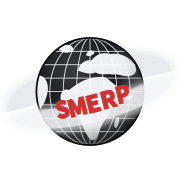
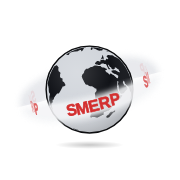
V20261127-02 휴대폰 지구를 PC와 동일하게 — 앱 시작 화면·홈 화면 아이콘·파비콘·상단 로고
- smerp-splash.js: PC 시작 화면과 같은 지구(회색 바다+검은 대륙, 격자 없음)·시계방향·떨림 제거
- icons/ 7종 새 지구로 재생성, 아이콘 주소 ?v=2→?v=3

Claude-Session: https://claude.ai/code/session_01Uk118kBQp8zNcn21PiF6a7

Changed region(s): [[0.1667, 0.1944, 0.8333, 0.8333]]

diff --git a/smerp-splash.js b/smerp-splash.js
@@ -24,26 +24,24 @@
   var R=106,RY=30,TILT=-14,PER=8000,WORD='SMERP',REP=4,LS=0.19;
   var wordA=WORD.length*LS,gapA=(2*Math.PI-REP*wordA)/REP,L=[];
   for(var r=0;r<REP;r++)for(var k=0;k<WORD.length;k++)L.push({c:WORD.charAt(k),a:r*(wordA+gapA)+k*LS});
-  var land='<path d="M-30 -2 C-38 -6 -44 4 -41 14 C-37 24 -27 28 -18 30 C-14 40 -10 52 -4 62 C0 70 6 72 10 64 C14 54 18 44 24 36 C30 30 31 22 33 14 C40 8 44 0 40 -6 C34 -10 28 -16 22 -20 C14 -22 6 -20 -2 -18 C-10 -16 -20 -10 -30 -2Z"/>'+
-    '<path d="M-18 -30 C-14 -40 -6 -46 2 -44 C8 -52 18 -57 28 -53 C40 -56 54 -50 62 -40 C68 -32 66 -24 57 -22 C48 -20 40 -26 32 -24 C24 -26 16 -22 8 -27 C0 -24 -8 -26 -18 -30Z"/>'+
-    '<path d="M42 -8 C50 -9 58 -2 61 8 C55 15 47 11 42 2Z"/><ellipse cx="38" cy="44" rx="3" ry="8" transform="rotate(15 38 44)"/>'+
-    '<path d="M-77 -22 C-66 -26 -58 -14 -60 0 C-62 14 -70 26 -77 32Z"/><path d="M-46 -62 C-36 -69 -22 -67 -24 -58 C-30 -53 -41 -54 -46 -62Z"/><path d="M-6 -52 C-2 -60 6 -60 6 -54 C2 -50 -3 -49 -6 -52Z"/>';
+  // (V20261127-02) 대륙 모양 — PC 시작 화면과 동일: 상무님 제공 지구 그림을 벡터로 변환 — 회색 바다 + 검은 대륙 (경로는 바다 영역 — 원=검정, 경로=회색)
+  var land='<path d="M-91.2 -0.1L-91.2 -80.6L-1.0 -80.6L89.3 -80.6L89.3 -0.1L89.3 80.4L-1.0 80.4L-91.2 80.4L-91.2 -0.1ZM-18.9 71.6C-18.9 71.2 -20.0 70.7 -21.1 70.4C-21.6 70.3 -22.2 70.1 -22.4 70.0C-22.6 69.9 -24.0 69.4 -25.5 69.0C-26.9 68.5 -28.3 68.0 -28.5 67.9C-28.6 67.8 -28.8 67.7 -28.9 67.8C-29.1 68.0 -28.3 68.7 -27.8 68.8C-27.5 68.8 -26.5 69.1 -24.8 69.9C-24.4 70.1 -23.7 70.3 -23.3 70.4C-22.9 70.5 -22.4 70.7 -22.3 70.8C-22.1 70.9 -21.5 71.1 -20.8 71.2C-20.2 71.3 -19.6 71.4 -19.5 71.6C-19.3 71.9 -18.9 71.9 -18.9 71.6ZM18.8 46.8C19.0 46.7 19.2 46.5 19.2 46.4C19.2 46.3 19.4 46.1 19.7 46.1C19.9 46.0 20.6 45.6 21.1 45.3C21.7 44.9 22.5 44.7 23.0 44.7C24.5 44.6 24.6 44.5 24.6 42.6C24.6 40.7 25.5 39.0 26.6 39.0C26.9 39.0 27.1 38.9 27.2 38.8C27.3 38.7 27.9 38.5 28.5 38.5C29.3 38.4 29.8 38.1 30.3 37.6C30.8 37.1 31.2 36.9 32.2 36.8C33.4 36.7 33.7 36.6 34.9 35.3C35.6 34.6 36.3 34.0 36.4 34.0C37.2 34.0 40.2 30.2 40.1 29.5C40.1 29.3 40.2 29.1 40.3 29.1C40.5 29.1 40.6 28.6 40.6 28.0C40.6 27.4 40.7 26.8 40.8 26.7C41.0 26.6 41.1 26.2 41.1 25.9C41.0 25.1 41.5 23.8 41.8 23.8C41.9 23.8 42.1 23.6 42.2 23.4C42.5 22.5 43.1 21.5 43.4 21.5C43.5 21.5 43.6 21.4 43.6 21.1C43.6 20.8 44.0 20.8 45.1 20.8C46.0 20.8 46.7 20.7 46.7 20.5C46.7 20.4 47.0 20.2 47.4 20.1C47.8 20.0 48.2 19.9 48.2 19.7C48.2 19.6 48.5 19.5 49.0 19.4C49.4 19.3 49.7 19.1 49.7 19.0C49.7 18.8 49.9 18.6 50.2 18.6C50.6 18.4 51.8 17.4 52.8 16.6C53.0 16.4 53.3 16.2 53.4 16.2C53.8 16.2 54.8 15.0 54.6 14.8C54.5 14.7 54.6 14.7 54.7 14.7C54.8 14.7 55.2 14.1 55.5 13.5C55.9 12.8 56.4 12.0 56.7 11.7C56.9 11.4 57.1 11.1 56.9 11.1C56.8 11.1 56.9 11.0 57.1 10.9C57.4 10.7 57.4 10.5 57.2 10.2C56.8 9.5 55.9 9.5 55.3 10.0C54.8 10.4 54.7 10.4 54.4 10.0C54.2 9.8 54.0 9.6 53.9 9.6C53.7 9.6 53.4 9.4 53.1 9.1C52.9 8.8 52.5 8.6 52.3 8.6C52.1 8.6 52.0 8.1 52.0 6.5C52.0 4.5 52.0 4.3 51.3 3.7C50.6 3.1 50.1 2.3 50.2 1.9C50.2 1.8 50.1 1.7 50.0 1.7C49.8 1.7 49.5 1.1 49.4 0.3C49.3 0.2 49.2 -0.1 49.1 -0.4C48.7 -1.5 48.6 -1.8 48.7 -2.8C48.7 -3.3 48.6 -3.9 48.5 -4.0C48.1 -4.2 48.1 -5.8 48.5 -6.0C48.6 -6.1 48.7 -7.7 48.7 -10.4C48.6 -14.9 48.9 -15.6 50.1 -14.5C50.5 -14.2 50.6 -11.9 50.2 -11.6C49.7 -11.3 49.9 -8.8 50.6 -7.5C51.2 -6.4 51.2 -6.1 51.2 -3.1C51.2 -1.2 51.3 0.2 51.5 0.3C51.6 0.4 51.7 0.6 51.6 0.7C51.5 0.9 51.5 1.2 51.7 1.5C52.0 2.2 52.3 3.0 52.4 3.4C52.5 3.9 52.9 4.7 53.4 5.2C53.8 5.5 54.0 5.8 53.9 5.8C53.4 6.3 55.8 7.8 56.4 7.5C56.7 7.2 57.4 7.0 58.0 7.0C59.0 7.0 61.1 5.4 61.1 4.6C61.1 4.5 62.1 3.5 63.3 2.3C64.5 1.2 65.4 0.2 65.3 0.1C65.3 0.1 65.4 -0.2 65.7 -0.4C66.8 -1.4 66.3 -3.0 64.6 -4.9C64.4 -5.1 64.2 -5.4 64.2 -5.5C64.2 -6.5 62.3 -7.6 61.6 -7.0C61.2 -6.6 60.5 -6.7 60.8 -7.2C60.8 -7.3 60.8 -7.6 60.7 -7.9C60.5 -8.1 60.2 -8.8 60.0 -9.4C59.7 -10.0 59.4 -10.5 59.3 -10.5C58.6 -10.5 58.2 -12.6 58.7 -13.2C58.8 -13.3 58.9 -13.6 58.9 -14.0C58.9 -15.2 60.2 -15.7 60.7 -14.7C61.1 -13.8 61.5 -13.0 61.5 -12.6C61.5 -12.5 61.6 -12.2 61.7 -12.0C62.1 -11.0 62.2 -10.6 62.3 -10.3C62.3 -10.1 62.5 -9.8 62.8 -9.6C63.0 -9.5 63.8 -8.7 64.6 -8.0C65.3 -7.3 66.0 -6.7 66.1 -6.7C66.7 -6.7 69.5 -3.5 69.5 -2.8C69.5 -2.4 69.6 -2.1 69.8 -2.0C69.9 -1.9 69.9 -1.7 69.9 -1.5C69.8 -1.2 69.8 -1.1 70.0 -1.1C70.2 -1.1 70.3 -0.7 70.3 -0.3C70.3 0.1 70.4 0.5 70.5 0.5C70.6 0.6 70.7 1.0 70.6 1.4C70.5 1.8 70.6 2.2 70.8 2.3C70.9 2.4 71.0 2.7 71.0 3.0C71.0 3.3 71.2 3.5 71.4 3.5C71.6 3.5 71.8 3.6 71.8 3.7C71.8 3.9 72.0 4.0 72.2 4.0C72.5 4.0 72.6 4.7 72.6 8.6C72.6 11.1 72.5 13.1 72.3 13.1C72.0 13.1 72.0 16.6 72.3 16.8C72.5 16.9 72.6 16.6 72.6 16.0C72.6 15.4 72.7 14.9 72.9 14.8C73.0 14.7 73.1 14.3 73.0 13.9C72.9 13.5 72.9 13.1 73.1 13.1C73.2 13.1 73.3 12.6 73.3 12.0C73.3 11.4 73.5 10.8 73.6 10.7C73.8 10.6 73.9 10.0 73.8 9.2C73.7 8.4 73.8 7.8 73.9 7.8C74.0 7.8 74.1 6.3 74.1 4.4C74.1 2.4 74.2 0.9 74.3 0.8C74.5 0.7 74.6 0.4 74.6 0.0C74.6 -0.3 74.5 -0.6 74.3 -0.6C74.2 -0.6 74.1 -1.9 74.1 -4.0C74.1 -5.8 74.0 -7.4 73.9 -7.5C73.8 -7.6 73.8 -8.3 73.8 -8.9C73.8 -9.6 73.8 -10.2 73.6 -10.3C73.5 -10.4 73.3 -11.0 73.3 -11.6C73.3 -12.2 73.2 -12.8 73.1 -12.9C73.0 -12.9 73.0 -13.3 73.0 -13.7C73.1 -14.1 73.0 -14.6 72.8 -14.7C72.7 -14.7 72.6 -15.2 72.6 -15.7C72.6 -16.2 72.5 -16.6 72.3 -16.7C72.2 -16.8 72.2 -17.0 72.2 -17.3C72.3 -17.6 72.2 -17.9 72.1 -18.0C71.9 -18.0 71.8 -18.5 71.8 -18.9C71.8 -19.3 71.7 -19.7 71.6 -19.7C71.4 -19.8 71.4 -20.0 71.5 -20.2C71.5 -20.4 71.5 -20.7 71.3 -20.8C71.2 -20.8 71.0 -21.3 71.0 -21.7C71.0 -22.1 70.9 -22.4 70.8 -22.4C70.6 -22.4 70.5 -22.6 70.6 -22.8C70.7 -23.0 70.7 -23.2 70.5 -23.3C70.4 -23.4 70.3 -23.7 70.3 -24.1C70.3 -24.4 70.2 -24.7 70.0 -24.7C69.9 -24.7 69.8 -24.8 69.8 -24.9C69.9 -25.1 69.6 -25.9 69.1 -26.8C68.9 -27.1 68.8 -27.7 68.8 -28.0C68.8 -28.3 68.6 -28.5 68.5 -28.5C68.4 -28.5 68.3 -28.6 68.3 -28.7C68.4 -29.2 65.0 -36.1 64.7 -36.1C64.5 -36.1 64.5 -36.2 64.5 -36.3C64.5 -36.7 64.1 -37.7 63.9 -37.7C63.7 -37.7 63.7 -37.7 63.8 -37.8C63.9 -38.0 63.6 -38.4 62.4 -39.9C62.3 -40.0 62.2 -40.2 62.3 -40.2C62.4 -40.2 62.0 -40.7 60.9 -42.2C60.7 -42.3 60.7 -42.5 60.8 -42.5C60.9 -42.5 60.0 -43.7 59.0 -44.8C58.6 -45.2 58.4 -45.5 58.5 -45.5C58.7 -45.5 57.1 -47.4 55.3 -49.2C54.6 -50.0 54.0 -50.7 54.0 -50.8C54.0 -51.1 51.4 -53.7 51.2 -53.7C51.0 -53.7 50.5 -54.1 49.9 -54.5C49.4 -55.0 48.8 -55.4 48.6 -55.4C48.4 -55.4 47.7 -55.7 47.1 -56.0C46.5 -56.4 45.6 -56.7 45.2 -56.8C44.8 -56.9 44.1 -57.3 43.7 -57.6C43.3 -57.9 42.8 -58.2 42.6 -58.2C42.5 -58.2 42.0 -58.6 41.5 -59.0C40.7 -59.7 40.6 -59.7 37.0 -59.9C35.0 -60.0 33.1 -60.2 32.8 -60.3C31.7 -60.8 29.2 -57.9 30.2 -57.3C30.3 -57.2 30.4 -57.1 30.3 -57.0C30.1 -56.6 30.9 -56.0 31.7 -55.9L32.5 -55.8L32.6 -54.4C32.6 -52.8 32.4 -52.7 31.1 -53.6C30.2 -54.1 28.5 -53.2 28.8 -52.3C28.9 -52.2 28.8 -52.1 28.7 -52.1C28.5 -52.1 28.4 -51.9 28.3 -51.6C28.1 -51.0 27.4 -50.7 26.8 -51.1C26.6 -51.2 26.1 -51.4 25.9 -51.4C25.6 -51.4 25.2 -51.6 25.0 -51.9C24.4 -52.5 24.0 -52.5 22.9 -52.0C22.1 -51.6 21.9 -51.6 21.4 -51.9C20.0 -52.6 18.2 -52.1 19.1 -51.1C19.4 -50.7 19.5 -50.5 19.2 -50.1C19.1 -49.8 19.0 -49.4 19.1 -49.3C19.3 -49.1 18.9 -49.1 17.8 -49.2C17.0 -49.3 16.2 -49.5 16.2 -49.7C16.1 -49.8 15.4 -50.0 14.6 -50.0L13.3 -50.1L11.4 -48.2C10.3 -47.2 9.6 -46.3 9.7 -46.3C9.9 -46.3 9.8 -46.2 9.6 -46.0C8.8 -45.6 10.8 -44.1 12.5 -43.9C13.3 -43.8 14.2 -43.6 14.4 -43.4C15.3 -42.6 18.1 -42.8 19.2 -43.9C19.7 -44.4 20.3 -44.8 20.5 -44.8C20.6 -44.8 20.8 -44.9 20.8 -45.1C21.0 -45.5 25.1 -45.5 25.3 -45.1C25.3 -44.9 25.9 -44.8 26.9 -44.8C28.8 -44.8 29.7 -44.2 29.4 -43.2C29.4 -43.1 29.5 -43.0 29.6 -43.0C29.8 -43.0 30.2 -42.0 30.2 -41.7C30.2 -41.5 30.3 -41.5 30.4 -41.5C30.6 -41.5 31.0 -40.5 30.9 -40.1C30.9 -40.0 31.0 -39.9 31.1 -39.9C31.3 -39.9 31.6 -39.4 31.6 -38.8C31.6 -38.7 31.7 -38.5 31.9 -38.4C32.3 -38.1 33.0 -36.9 33.0 -36.3C33.0 -35.7 33.1 -35.6 34.6 -35.5C36.8 -35.2 36.9 -35.4 35.2 -37.1C34.4 -37.9 33.7 -38.7 33.7 -38.9C33.7 -39.1 33.5 -39.5 33.3 -39.8C33.1 -40.1 33.0 -40.6 33.0 -40.9C33.0 -41.2 32.8 -41.5 32.7 -41.5C32.6 -41.5 32.5 -41.5 32.5 -41.7C32.5 -41.8 32.4 -42.1 32.3 -42.3C31.8 -43.5 33.1 -44.0 33.7 -42.9C33.9 -42.4 34.3 -41.8 34.6 -41.5C34.8 -41.2 35.0 -41.0 34.9 -41.0C34.6 -41.0 35.3 -40.3 35.7 -40.1C37.9 -39.0 38.2 -38.8 38.2 -37.6C38.3 -36.4 38.9 -35.7 40.1 -35.5C40.5 -35.4 40.9 -35.2 41.0 -35.1C41.2 -34.8 42.1 -34.8 42.1 -35.1C42.1 -35.2 42.3 -35.4 42.5 -35.5C44.2 -36.1 45.0 -37.5 44.1 -38.0C43.6 -38.3 44.2 -38.7 45.1 -38.7C46.0 -38.7 46.3 -38.5 47.2 -37.6C47.8 -37.0 48.5 -36.4 48.7 -36.3C51.1 -35.1 51.6 -34.7 51.5 -33.8C51.5 -33.2 51.6 -32.8 52.5 -32.0C53.5 -30.9 53.5 -30.9 53.1 -30.4C52.6 -30.0 51.2 -30.1 51.2 -30.5C51.2 -30.7 50.9 -30.8 50.5 -30.9C50.1 -31.0 49.7 -31.2 49.7 -31.3C49.7 -31.4 49.4 -31.6 49.0 -31.7C48.5 -31.8 48.2 -32.0 48.2 -32.1C48.2 -32.2 47.9 -32.3 47.5 -32.3C47.2 -32.3 46.8 -32.5 46.8 -32.7C46.7 -32.9 46.3 -33.1 45.9 -33.2C45.5 -33.3 45.1 -33.5 45.1 -33.6C45.1 -33.7 44.5 -33.8 43.6 -33.8C42.8 -33.8 42.1 -33.7 42.1 -33.6C42.1 -33.5 41.3 -33.3 40.4 -33.3L38.7 -33.2L38.6 -32.1C38.5 -30.8 39.2 -30.0 40.9 -29.4C41.1 -29.3 41.3 -29.1 41.3 -29.0C41.3 -28.7 44.2 -27.3 45.1 -27.1C45.6 -27.0 45.9 -26.8 45.9 -26.7C45.9 -26.6 46.2 -26.4 46.7 -26.3C47.1 -26.3 47.4 -26.1 47.4 -26.0C47.4 -25.9 47.8 -25.7 48.2 -25.6C48.6 -25.5 49.0 -25.3 49.0 -25.2C49.0 -25.1 49.3 -24.8 49.7 -24.6C50.4 -24.3 50.7 -23.4 50.2 -22.6C50.1 -22.3 50.0 -21.9 50.0 -21.8C50.3 -20.8 48.8 -19.0 48.3 -19.7C48.1 -19.9 47.9 -20.1 47.8 -20.1C47.7 -20.1 46.4 -21.3 44.9 -22.8C42.8 -24.9 42.1 -25.5 41.5 -25.5C41.1 -25.5 40.5 -25.8 40.0 -26.2C39.5 -26.6 39.0 -27.0 38.9 -27.0C38.8 -27.0 38.5 -27.2 38.2 -27.5C37.3 -28.5 35.2 -27.9 35.6 -26.7C35.8 -26.3 35.7 -26.2 34.8 -26.2C34.1 -26.2 33.9 -26.3 34.1 -26.6C34.2 -26.9 33.4 -27.8 31.6 -29.3C31.1 -29.7 30.6 -30.0 30.5 -30.0C30.4 -30.0 30.1 -30.2 29.9 -30.4C28.8 -31.4 27.6 -32.3 27.4 -32.3C26.5 -32.3 28.7 -34.5 29.8 -34.7C30.6 -34.9 31.0 -35.4 30.4 -35.4C30.2 -35.4 30.2 -35.4 30.2 -35.5C30.6 -35.9 29.3 -36.9 28.6 -36.9C28.2 -36.9 27.8 -37.0 27.7 -37.2C27.6 -37.4 27.4 -37.7 27.2 -37.8C26.9 -37.8 26.4 -38.1 26.1 -38.3C25.6 -38.6 25.0 -38.6 23.9 -38.5C22.7 -38.4 22.3 -38.4 22.1 -38.8C21.9 -39.0 21.6 -39.2 21.5 -39.2C21.3 -39.2 20.8 -39.6 20.3 -40.1C19.5 -40.9 19.4 -41.0 17.3 -41.0C16.2 -41.0 15.1 -41.1 15.1 -41.2C15.0 -41.3 14.4 -41.5 13.7 -41.6C13.0 -41.7 12.4 -41.8 12.4 -42.0C12.4 -42.1 11.5 -42.2 10.5 -42.2C9.4 -42.2 8.6 -42.1 8.6 -42.0C8.6 -41.8 8.4 -41.7 8.2 -41.7C8.0 -41.7 7.7 -41.5 7.4 -41.2C7.2 -40.9 6.8 -40.7 6.6 -40.7C6.4 -40.7 6.3 -40.6 6.3 -40.4C6.3 -40.3 6.1 -40.2 5.9 -40.2C5.7 -40.2 5.5 -40.0 5.3 -39.8C5.1 -39.6 4.3 -39.4 3.4 -39.3C2.5 -39.2 1.7 -39.0 1.7 -38.9C1.7 -38.8 1.4 -38.6 1.0 -38.5C0.5 -38.4 0.2 -38.3 0.2 -38.2C0.2 -38.0 -0.2 -37.9 -0.8 -37.7C-1.4 -37.6 -1.8 -37.3 -2.0 -36.8C-2.4 -36.2 -2.4 -36.1 -4.1 -36.2L-5.9 -36.3L-7.4 -34.7C-8.3 -33.9 -9.0 -33.0 -9.0 -32.8C-9.0 -32.5 -9.1 -32.3 -9.2 -32.2C-9.4 -32.1 -9.5 -31.7 -9.4 -31.3C-9.3 -30.9 -9.4 -30.5 -9.5 -30.4C-9.6 -30.3 -9.7 -30.0 -9.7 -29.6C-9.7 -29.1 -10.1 -28.5 -11.2 -27.5C-12.9 -25.8 -13.3 -25.1 -13.1 -24.4C-13.0 -24.2 -13.1 -23.9 -13.3 -23.9C-13.6 -23.9 -13.6 -22.0 -13.3 -21.8C-13.1 -21.7 -13.1 -21.5 -13.2 -21.3C-13.3 -21.1 -13.2 -20.9 -13.0 -20.9C-12.9 -20.9 -12.8 -20.7 -12.8 -20.4C-12.8 -19.8 -8.7 -11.7 -8.5 -11.7C-8.3 -11.7 -7.9 -10.8 -7.9 -10.4C-7.9 -10.3 -7.8 -10.2 -7.7 -10.2C-7.6 -10.2 -7.4 -10.0 -7.4 -9.7C-7.2 -9.1 -5.3 -8.2 -4.0 -8.2C-3.3 -8.2 -2.8 -8.0 -2.5 -7.7C-2.2 -7.4 -1.9 -7.2 -1.8 -7.2C-1.7 -7.2 -1.3 -6.9 -0.9 -6.5C-0.3 -5.8 -0.1 -5.8 2.2 -5.7C3.6 -5.6 4.8 -5.5 4.8 -5.4C4.8 -5.3 5.1 -5.1 5.5 -5.1C6.0 -5.0 6.3 -4.7 6.3 -4.5C6.3 -4.3 6.6 -4.1 7.2 -4.1C7.8 -4.0 8.1 -3.9 8.1 -3.9C7.7 -3.4 9.8 -1.9 10.9 -1.8C12.0 -1.7 12.0 -1.7 11.9 -0.9C11.9 -0.5 12.0 -0.0 12.1 0.1C12.5 0.3 12.4 2.6 12.0 3.0C11.8 3.2 11.6 3.4 11.6 3.5C11.6 3.7 11.1 4.2 10.5 4.8C9.4 5.9 9.0 6.9 9.5 7.4C9.6 7.5 9.7 8.1 9.6 8.7C9.6 9.3 9.7 9.9 9.8 10.0C10.0 10.1 10.1 11.0 10.1 12.1C10.1 13.2 10.2 14.1 10.3 14.2C10.3 14.3 10.4 15.1 10.4 16.1C10.4 17.0 10.3 17.8 10.3 17.9C10.2 18.0 10.1 18.3 10.1 18.6C10.1 19.0 10.0 19.2 9.8 19.2C9.7 19.2 9.6 19.4 9.7 19.5C9.8 19.6 9.6 19.9 9.2 20.0C8.9 20.1 8.6 20.3 8.6 20.5C8.6 20.6 8.4 20.8 8.1 20.9C7.1 21.3 6.5 21.7 6.7 22.0C6.7 22.1 6.7 22.3 6.5 22.4C6.4 22.5 6.3 22.8 6.3 23.2C6.3 23.5 6.2 23.8 6.0 23.8C5.8 23.8 5.8 24.0 5.9 24.2C5.9 24.4 5.9 24.6 5.8 24.7C5.6 24.8 5.5 25.1 5.5 25.5C5.5 25.8 5.4 26.1 5.2 26.1C5.1 26.1 5.0 26.3 5.1 26.5C5.2 26.7 5.1 26.9 5.0 27.0C4.9 27.1 4.8 27.4 4.8 27.8C4.8 28.1 4.6 28.4 4.5 28.4C4.3 28.4 4.3 28.5 4.3 28.8C4.4 29.0 4.4 29.2 4.2 29.3C4.1 29.4 4.0 29.7 4.0 30.0C4.0 30.4 3.9 30.7 3.7 30.7C3.6 30.7 3.5 31.2 3.5 31.8C3.5 32.4 3.6 33.0 3.7 33.1C3.9 33.2 4.0 33.7 4.0 34.2C4.0 34.8 4.1 35.2 4.2 35.2C4.4 35.2 4.4 39.0 4.1 39.2C4.1 39.3 4.0 39.8 4.0 40.4C4.0 40.9 3.9 41.3 3.7 41.3C3.6 41.3 3.5 41.4 3.6 41.6C3.7 41.7 3.4 42.0 3.1 42.4C2.8 42.7 2.5 43.1 2.5 43.3C2.5 43.4 2.3 43.6 2.1 43.7C1.8 43.8 1.7 44.2 1.7 45.3C1.7 46.1 1.6 46.7 1.4 46.7C1.3 46.7 1.2 46.9 1.3 47.2C1.4 47.5 1.3 47.9 1.2 48.1C1.0 48.4 1.0 48.4 1.3 48.4C1.5 48.4 1.7 48.6 1.7 48.7C1.7 49.1 3.9 49.0 4.1 48.6C4.2 48.2 9.9 48.2 10.4 48.6C10.6 48.8 11.3 49.0 11.9 49.1C12.6 49.2 13.1 49.3 13.1 49.4C13.1 49.6 14.3 49.0 15.7 48.3C17.2 47.5 18.5 46.9 18.8 46.8ZM34.8 48.0C35.3 47.5 35.7 47.0 35.6 47.0C35.6 46.9 36.3 46.0 37.3 45.0C38.2 44.1 39.6 42.5 40.4 41.7C41.3 40.7 42.1 40.1 42.6 40.0C43.5 39.8 45.1 38.2 45.1 37.6C45.1 37.1 44.4 36.0 44.4 36.4C44.4 36.6 44.2 36.8 44.0 36.8C43.9 36.8 43.5 37.0 43.2 37.3C43.0 37.5 42.7 37.8 42.5 37.8C42.4 37.8 42.0 38.1 41.7 38.4C41.2 39.0 40.9 39.0 39.1 39.0C37.2 39.0 37.1 39.1 36.5 39.8C36.2 40.2 35.7 40.6 35.6 40.6C35.4 40.6 35.2 40.7 35.2 41.0C35.2 41.2 35.1 41.3 35.0 41.3C34.8 41.3 34.7 41.4 34.8 41.5C34.8 41.9 34.4 42.7 33.9 43.2C33.6 43.4 32.9 43.9 32.4 44.4C31.9 44.8 31.3 45.1 31.1 45.1C30.9 45.1 30.7 45.3 30.7 45.6C30.7 45.9 30.3 46.4 29.9 46.8C29.1 47.6 29.0 47.9 29.5 48.7C30.0 49.7 33.5 49.2 34.8 48.0ZM-64.7 34.8C-64.8 34.4 -64.9 33.8 -64.8 33.4C-64.8 33.1 -64.9 32.7 -65.1 32.6C-65.2 32.5 -65.3 32.0 -65.3 31.6C-65.3 31.1 -65.4 30.6 -65.6 30.5C-65.7 30.4 -65.8 30.3 -65.7 30.1C-65.6 30.0 -65.7 29.9 -65.8 29.9C-66.1 29.9 -66.4 29.0 -66.4 28.5C-66.4 28.3 -66.5 28.1 -66.6 28.0C-66.9 27.8 -66.9 25.7 -66.6 25.4C-66.4 25.3 -66.4 25.0 -66.4 24.6C-66.6 23.9 -66.3 23.6 -65.0 23.2C-64.5 23.0 -64.3 20.2 -64.8 19.9C-65.2 19.7 -65.0 18.9 -64.4 18.6C-64.2 18.5 -63.7 18.1 -63.4 17.8C-63.1 17.5 -62.7 17.2 -62.6 17.2C-62.4 17.2 -62.3 16.6 -62.3 15.7C-62.3 14.5 -62.2 14.1 -61.9 14.0C-61.7 13.9 -61.5 13.7 -61.5 13.5C-61.5 13.4 -61.2 13.0 -60.9 12.6C-60.5 12.3 -60.3 12.0 -60.4 11.9C-60.4 11.9 -60.2 11.5 -59.9 11.1C-58.9 10.1 -57.9 8.8 -58.1 8.8C-58.2 8.8 -57.8 8.4 -57.4 7.9C-56.5 7.0 -56.4 7.0 -55.2 7.1C-54.0 7.3 -53.1 6.9 -53.6 6.5C-53.7 6.4 -53.6 6.3 -53.5 6.3C-53.3 6.3 -53.0 5.7 -52.6 5.1C-52.3 4.4 -51.9 3.6 -51.6 3.4C-51.4 3.1 -50.7 2.0 -50.2 0.9C-49.7 -0.2 -49.1 -1.1 -49.0 -1.1C-48.9 -1.1 -48.8 -1.2 -48.9 -1.3C-48.9 -1.7 -48.5 -2.6 -48.3 -2.6C-48.2 -2.6 -48.1 -2.7 -48.1 -2.8C-48.2 -3.2 -47.7 -4.1 -47.5 -4.1C-47.3 -4.1 -47.3 -4.2 -47.4 -4.3C-47.7 -4.6 -47.0 -5.1 -46.3 -5.1C-45.9 -5.1 -45.5 -5.2 -45.5 -5.4C-45.5 -5.5 -45.1 -5.6 -44.5 -5.7C-43.2 -5.9 -41.5 -7.6 -42.2 -8.1C-42.4 -8.2 -42.5 -8.5 -42.5 -8.8C-42.5 -9.2 -42.6 -9.5 -42.7 -9.5C-42.9 -9.5 -43.0 -9.5 -43.0 -9.7C-42.9 -10.0 -43.3 -11.0 -43.5 -11.0C-43.6 -11.0 -43.7 -11.1 -43.7 -11.2C-43.6 -11.8 -44.6 -13.0 -45.8 -13.7C-47.4 -14.5 -47.4 -14.7 -47.3 -17.0L-47.3 -19.1L-48.7 -19.7C-49.5 -20.1 -50.1 -20.5 -50.1 -20.6C-50.1 -20.7 -50.4 -20.9 -50.9 -21.0L-51.6 -21.2L-51.6 -24.1C-51.6 -26.4 -51.5 -27.2 -51.2 -27.6C-50.4 -28.6 -51.2 -30.7 -52.4 -30.9C-52.8 -31.0 -53.1 -31.2 -53.1 -31.3C-53.1 -31.4 -53.4 -31.6 -53.8 -31.8C-54.2 -32.0 -54.3 -32.2 -54.2 -32.5C-54.2 -32.8 -54.2 -33.1 -54.4 -33.2C-54.7 -33.4 -54.8 -37.1 -54.4 -37.3C-53.9 -37.6 -54.1 -38.8 -54.8 -39.4C-55.1 -39.8 -55.4 -40.1 -55.4 -40.2C-55.4 -40.4 -55.7 -40.7 -56.1 -41.1C-56.5 -41.4 -56.7 -41.7 -56.6 -41.7C-56.5 -41.7 -56.5 -41.9 -56.7 -42.1C-57.0 -42.5 -58.2 -42.4 -58.5 -42.0C-58.5 -41.8 -59.1 -41.7 -59.6 -41.6C-60.2 -41.5 -60.7 -41.3 -60.8 -41.2C-60.8 -41.1 -61.1 -41.0 -61.4 -40.8C-61.7 -40.6 -61.9 -40.4 -61.8 -40.3C-61.8 -40.3 -61.9 -40.0 -62.0 -39.9C-63.2 -38.4 -63.5 -38.0 -63.4 -37.8C-63.3 -37.7 -63.3 -37.7 -63.5 -37.7C-63.7 -37.7 -64.2 -36.7 -64.1 -36.3C-64.1 -36.2 -64.2 -36.1 -64.3 -36.1C-64.6 -36.1 -68.0 -29.2 -67.9 -28.7C-67.9 -28.6 -68.0 -28.5 -68.1 -28.5C-68.3 -28.5 -68.4 -28.3 -68.4 -28.0C-68.4 -27.7 -68.5 -27.1 -68.7 -26.8C-69.2 -25.9 -69.5 -25.1 -69.4 -24.9C-69.4 -24.8 -69.5 -24.7 -69.7 -24.7C-69.8 -24.7 -69.9 -24.4 -69.9 -24.1C-69.9 -23.7 -70.0 -23.4 -70.1 -23.3C-70.3 -23.2 -70.3 -23.0 -70.2 -22.8C-70.2 -22.6 -70.2 -22.4 -70.4 -22.4C-70.5 -22.4 -70.7 -22.1 -70.7 -21.7C-70.7 -21.3 -70.8 -20.8 -70.9 -20.8C-71.1 -20.7 -71.1 -20.4 -71.1 -20.2C-71.0 -20.0 -71.1 -19.8 -71.2 -19.7C-71.3 -19.7 -71.4 -19.3 -71.4 -18.9C-71.4 -18.5 -71.6 -18.0 -71.7 -18.0C-71.9 -17.9 -71.9 -17.6 -71.9 -17.3C-71.8 -17.0 -71.8 -16.8 -72.0 -16.7C-72.1 -16.6 -72.2 -16.2 -72.2 -15.7C-72.2 -15.2 -72.3 -14.7 -72.5 -14.7C-72.6 -14.6 -72.7 -14.1 -72.6 -13.7C-72.6 -13.3 -72.6 -12.9 -72.7 -12.9C-72.9 -12.8 -73.0 -12.2 -73.0 -11.6C-73.0 -10.9 -73.1 -10.5 -73.3 -10.5C-73.5 -10.4 -73.5 -10.4 -73.3 -10.3C-73.1 -10.2 -73.0 -9.9 -73.0 -9.5C-73.0 -9.1 -72.9 -8.7 -72.7 -8.6C-72.6 -8.5 -72.6 -8.1 -72.6 -7.7C-72.7 -7.3 -72.6 -6.9 -72.5 -6.8C-72.3 -6.7 -72.2 -6.3 -72.2 -5.8C-72.2 -5.3 -72.1 -4.9 -72.0 -4.8C-71.9 -4.7 -71.8 -4.3 -71.9 -3.9C-71.9 -3.5 -71.9 -3.1 -71.7 -3.0C-71.5 -2.9 -71.4 -1.6 -71.4 0.6C-71.4 3.9 -70.8 6.3 -69.6 7.1C-69.5 7.2 -69.4 7.3 -69.4 7.4C-69.4 7.5 -69.3 7.7 -69.2 8.0C-69.1 8.2 -69.2 8.5 -69.4 8.6C-69.6 8.7 -69.7 9.0 -69.6 9.3C-69.5 9.6 -69.5 9.9 -69.7 10.0C-69.8 10.1 -69.9 10.5 -69.9 10.9C-69.9 11.3 -70.0 11.6 -70.2 11.6C-70.3 11.6 -70.4 12.5 -70.4 14.2C-70.4 15.6 -70.4 16.8 -70.5 16.9C-70.8 17.1 -70.7 19.4 -70.4 19.6C-70.3 19.7 -70.2 19.9 -70.3 20.0C-70.4 20.1 -70.3 20.4 -70.2 20.7C-69.8 21.4 -69.6 22.1 -69.6 22.5C-69.6 22.6 -69.5 22.8 -69.4 22.9C-69.3 23.0 -69.1 23.4 -69.1 23.8C-69.1 24.2 -69.0 24.6 -68.9 24.6C-68.8 24.6 -68.7 24.9 -68.8 25.3C-68.9 25.7 -68.8 26.1 -68.7 26.2C-68.5 26.3 -68.4 26.9 -68.4 27.4C-68.4 28.0 -68.2 28.7 -68.0 29.0C-67.8 29.3 -67.6 29.8 -67.6 30.1C-67.6 30.4 -67.5 30.7 -67.4 30.7C-67.2 30.7 -67.1 30.8 -67.1 30.9C-67.2 31.2 -66.8 32.2 -66.6 32.2C-66.5 32.2 -66.4 32.3 -66.4 32.4C-66.4 32.8 -66.0 33.7 -65.8 33.7C-65.7 33.7 -65.6 33.8 -65.6 33.9C-65.7 34.0 -65.5 34.6 -65.2 35.1C-64.7 36.2 -64.4 36.0 -64.7 34.8ZM25.1 -54.0C25.0 -54.2 24.9 -54.4 25.0 -54.5C25.1 -54.6 25.0 -54.9 24.9 -55.2C24.5 -56.0 24.2 -56.8 24.2 -57.1C24.1 -57.3 24.0 -57.8 23.6 -58.7C23.5 -58.9 23.4 -59.2 23.4 -59.4C23.3 -61.0 22.3 -60.5 22.3 -58.9C22.3 -58.2 22.1 -57.4 22.0 -57.3C21.8 -57.1 21.8 -57.0 21.9 -57.0C22.0 -57.0 21.6 -56.4 21.1 -55.8C19.3 -53.8 19.3 -53.7 22.6 -53.7C24.9 -53.7 25.3 -53.7 25.1 -54.0ZM-36.3 -61.0C-36.1 -61.2 -35.9 -61.5 -36.0 -61.6C-36.0 -61.7 -35.7 -62.2 -35.2 -62.7C-34.8 -63.3 -34.5 -63.8 -34.5 -63.9C-34.5 -64.0 -34.3 -64.2 -34.1 -64.3C-33.9 -64.4 -33.5 -64.6 -33.1 -64.8C-32.8 -64.9 -32.2 -65.1 -31.8 -65.1C-31.4 -65.1 -31.0 -65.3 -30.8 -65.5C-30.6 -65.7 -30.3 -65.8 -30.1 -65.8C-29.8 -65.8 -29.3 -66.0 -28.9 -66.2C-28.4 -66.5 -27.0 -66.7 -24.3 -66.8L-20.4 -66.9L-19.3 -68.0C-18.0 -69.4 -14.1 -69.6 -14.6 -68.3C-14.7 -68.1 -14.7 -67.8 -14.5 -67.7C-14.4 -67.7 -14.3 -67.4 -14.3 -67.1C-14.3 -66.0 -11.7 -68.5 -10.8 -70.5C-9.7 -72.6 -9.3 -73.0 -7.8 -73.0C-6.9 -73.0 -6.4 -73.1 -6.2 -73.3C-5.8 -73.8 -9.8 -73.6 -10.3 -73.2C-10.5 -73.1 -11.5 -72.9 -12.5 -72.8C-13.6 -72.7 -14.5 -72.6 -14.7 -72.5C-14.8 -72.3 -15.6 -72.2 -16.4 -72.1C-17.2 -72.0 -17.9 -71.8 -18.0 -71.7C-18.0 -71.6 -18.7 -71.4 -19.3 -71.3C-20.0 -71.2 -20.7 -71.1 -20.7 -70.9C-20.8 -70.8 -21.4 -70.6 -22.0 -70.6C-22.6 -70.5 -23.2 -70.3 -23.3 -70.1C-23.4 -70.0 -23.6 -69.9 -23.8 -69.9C-24.2 -69.9 -25.5 -69.4 -26.8 -68.7C-27.2 -68.5 -27.6 -68.4 -27.8 -68.4C-28.6 -68.4 -37.5 -63.9 -39.0 -62.7C-39.5 -62.3 -40.0 -62.0 -40.1 -62.0C-40.3 -62.0 -40.5 -61.9 -40.7 -61.7C-41.0 -61.3 -40.9 -61.3 -40.4 -61.3C-40.1 -61.3 -39.7 -61.2 -39.5 -61.0C-39.3 -60.8 -38.8 -60.7 -37.1 -60.5C-36.9 -60.5 -36.5 -60.7 -36.3 -61.0ZM33.5 -65.8C33.7 -66.1 28.4 -68.5 28.2 -68.3C28.0 -68.1 27.8 -68.2 30.7 -66.8C33.3 -65.5 33.4 -65.5 33.5 -65.8ZM23.1 -69.1C24.0 -70.0 23.9 -70.3 22.4 -70.6C21.8 -70.6 21.2 -70.8 21.1 -70.9C21.1 -71.1 20.4 -71.2 19.7 -71.3C19.0 -71.4 18.4 -71.6 18.3 -71.7C18.3 -71.8 17.6 -72.0 16.8 -72.1C16.0 -72.2 15.2 -72.3 15.0 -72.5C14.9 -72.6 13.9 -72.7 12.9 -72.8C11.8 -72.9 10.9 -73.1 10.7 -73.2C10.5 -73.4 8.6 -73.5 6.4 -73.6L2.5 -73.8L2.5 -72.7C2.5 -72.2 2.3 -71.4 2.2 -71.2C1.8 -70.5 2.2 -69.8 3.0 -69.7C3.3 -69.6 3.8 -69.5 3.9 -69.4C4.3 -69.1 4.8 -69.8 4.8 -70.7C4.8 -71.1 5.0 -71.6 5.4 -71.9L6.0 -72.5L7.4 -71.8C8.2 -71.5 8.9 -71.2 9.0 -71.2C9.2 -71.2 10.7 -70.4 14.5 -68.6C16.3 -67.7 22.1 -68.1 23.1 -69.1Z"/>';
   var grid='<ellipse rx="19" ry="76"/><ellipse rx="38" ry="76"/><ellipse rx="57" ry="76"/><line x1="0" y1="-76" x2="0" y2="76"/>';
   [-57,-38,-19,0,19,38,57].forEach(function(y){grid+='<line x1="-80" y1="'+y+'" x2="80" y2="'+y+'"/>';});
   function band(c){return '<ellipse rx="'+R+'" ry="'+RY+'" fill="none" stroke="'+c+'" stroke-width="42" filter="url(#ssbb)" opacity=".6"/><ellipse rx="'+R+'" ry="'+RY+'" fill="none" stroke="'+c+'" stroke-width="28" filter="url(#ssbc)" opacity=".72"/>';}
   var lt='';
   L.forEach(function(o,i){lt+='<text data-i="'+i+'" font-family="\'Noto Sans KR\',sans-serif" font-size="28.6" font-weight="900" text-anchor="middle" dominant-baseline="central" fill="#D32F2F" stroke="#D32F2F" stroke-width="1.1" stroke-linejoin="round">'+o.c+'</text>';});
-  var svg='<svg viewBox="0 0 240 240" width="100%" height="100%" style="overflow:visible;display:block" aria-hidden="true"><defs>'+
-    '<radialGradient id="ssshd" cx="36%" cy="30%" r="78%"><stop offset="0" stop-color="#fff" stop-opacity=".16"/><stop offset=".5" stop-color="#fff" stop-opacity="0"/><stop offset="1" stop-color="#000" stop-opacity=".55"/></radialGradient>'+
+  var svg='<svg viewBox="0 0 240 240" width="100%" height="100%" style="overflow:visible;display:block;text-rendering:geometricPrecision;shape-rendering:geometricPrecision" aria-hidden="true"><defs>'+
+    '<radialGradient id="ssshd" cx="36%" cy="30%" r="78%"><stop offset="0" stop-color="#fff" stop-opacity=".16"/><stop offset=".5" stop-color="#fff" stop-opacity="0"/><stop offset="1" stop-color="#000" stop-opacity=".22"/></radialGradient>'+
     '<radialGradient id="ssgs" cx="50%" cy="50%" r="50%"><stop offset="0" stop-color="#000" stop-opacity=".22"/><stop offset="1" stop-color="#000" stop-opacity="0"/></radialGradient>'+
     '<filter id="ssbb" x="-30%" y="-90%" width="160%" height="280%"><feGaussianBlur stdDeviation="5"/></filter><filter id="ssbc" x="-30%" y="-90%" width="160%" height="280%"><feGaussianBlur stdDeviation="1.6"/></filter>'+
     '<clipPath id="ssgc"><circle r="76"/></clipPath><clipPath id="sstop"><rect x="-200" y="-200" width="400" height="200"/></clipPath>'+
     '<linearGradient id="sslf" gradientUnits="userSpaceOnUse" x1="0" y1="-4" x2="0" y2="12"><stop offset="0" stop-color="#fff" stop-opacity="0"/><stop offset="1" stop-color="#fff"/></linearGradient>'+
     '<mask id="ssfm" maskUnits="userSpaceOnUse" x="-200" y="-200" width="400" height="400"><rect x="-200" y="-200" width="400" height="400" fill="url(#sslf)"/></mask></defs>'+
     '<g transform="translate(120 120)"><ellipse cy="97" rx="60" ry="7" fill="url(#ssgs)"/>'+
-    '<g transform="rotate('+TILT+')"><g clip-path="url(#sstop)">'+band('#E5E7EB')+'</g><g id="ssBack"></g></g>'+
-    '<circle r="76" fill="#16181C"/>'+
-    '<g clip-path="url(#ssgc)"><g fill="#EDEFF2">'+land+'</g><g fill="none" stroke="#fff" stroke-opacity=".85" stroke-width="1.3">'+grid+'</g><circle r="76" fill="url(#ssshd)"/></g>'+
+    '<g transform="rotate('+TILT+')"><g clip-path="url(#sstop)">'+band('#E5E7EB')+'</g><g id="ssBack">'+lt+'</g></g>'+
+    '<circle r="76" fill="#111318"/>'+
+    '<g clip-path="url(#ssgc)"><g fill="#D1D5DB">'+land+'</g><circle r="76" fill="url(#ssshd)"/></g>'+
     '<circle r="76" fill="none" stroke="#0B0C0E" stroke-width="2.5"/>'+
     '<g transform="rotate('+TILT+')"><g mask="url(#ssfm)">'+band('#F3F4F6')+'</g><g id="ssFront">'+lt+'</g></g></g></svg>';
 
@@ -54,18 +52,19 @@
   (document.body||document.documentElement).appendChild(sp);
 
   var back=sp.querySelector('#ssBack'),front=sp.querySelector('#ssFront');
-  var ts=[].slice.call(front.querySelectorAll('text'));
+  var ts=[].slice.call(front.querySelectorAll('text')),tb=[].slice.call(back.querySelectorAll('text'));
   var alive=true,st=null;
+  // (V20261127-02) PC와 동일 — 시계방향, 앞·뒤 두 벌 투명도 전환(떨림 제거)
   function place(ph){
-    var base=ph*2*Math.PI;
-    ts.forEach(function(el){
-      var th=L[+el.getAttribute('data-i')].a+base,c=Math.cos(th),x=R*Math.sin(th),y=RY*c,fr=c>0;
-      var op=fr?Math.min(1,0.15+c*1.6):0.16*Math.min(1,-c*1.6);
+    var base=-ph*2*Math.PI;
+    for(var i=0;i<ts.length;i++){
+      var th=L[i].a+base,c=Math.cos(th),x=R*Math.sin(th),y=RY*c,fr=c>0;
       var sx=(c<0?-1:1)*Math.max(0.03,Math.abs(c));
-      el.setAttribute('transform','translate('+x.toFixed(2)+' '+y.toFixed(2)+') scale('+sx.toFixed(3)+' 1)');
-      el.setAttribute('opacity',op.toFixed(3));
-      var want=fr?front:back;if(el.parentNode!==want)want.appendChild(el);
-    });
+      var tf='translate('+x.toFixed(3)+' '+y.toFixed(3)+') scale('+sx.toFixed(4)+' 1)';
+      ts[i].setAttribute('transform',tf); tb[i].setAttribute('transform',tf);
+      ts[i].setAttribute('opacity',fr?Math.min(1,0.15+c*1.6).toFixed(3):'0');
+      tb[i].setAttribute('opacity',fr?'0':(0.16*Math.min(1,-c*1.6)).toFixed(3));
+    }
   }
   function loop(t){if(!alive)return;if(st===null)st=t;place(((t-st)/PER)%1);requestAnimationFrame(loop);}
   place(0);requestAnimationFrame(loop);

diff --git a/index.html b/index.html
@@ -8,8 +8,8 @@
 <title>SMEKOREA 통합 플랫폼</title>
 <!-- (V20261125) 휴대폰 홈 화면 앱 아이콘 — 지구+SMERP 띠 -->
 <link rel="manifest" href="manifest.json">
-<link rel="icon" type="image/png" sizes="64x64" href="icons/favicon-64.png?v=2">
-<link rel="apple-touch-icon" href="icons/apple-touch-icon.png?v=2">
+<link rel="icon" type="image/png" sizes="64x64" href="icons/favicon-64.png?v=3">
+<link rel="apple-touch-icon" href="icons/apple-touch-icon.png?v=3">
 <meta name="theme-color" content="#1B3A6B">
 <meta name="mobile-web-app-capable" content="yes">
 <meta name="apple-mobile-web-app-capable" content="yes">
@@ -326,14 +326,14 @@ html body .tb-logout{height:28px!important;padding:0 6px!important;font-size:11p
 <script src="smerp-fullscreen.js?v=1" defer></script>
 </head>
 <body data-mobile="off">
-<script src="smerp-splash.js?v=20261126"></script><!-- (V20261126-03) 휴대폰 앱 시작 화면 -->
+<script src="smerp-splash.js?v=20261127"></script><!-- (V20261126-03) 휴대폰 앱 시작 화면 -->
 <script src="smerp-intro.js?v=20261127"></script><!-- (V20261126-12) PC 시작 화면 — 로그아웃 상태면 회전 지구, 누르면 로그인 -->
 
 <header class="topbar">
   <div class="tb-row">
     <!-- 로고 -->
     <div class="tb-logo">
-      <img class="tb-logo-img" src="icons/logo-128.png?v=2" alt="" aria-hidden="true">
+      <img class="tb-logo-img" src="icons/logo-128.png?v=3" alt="" aria-hidden="true">
       <span class="tb-logo-text">SMERP</span>
       <span class="tb-logo-ver">Ver 1.6 · 2026-06-26 · SMEKOREA</span>
     </div>

diff --git a/smerp-session.js b/smerp-session.js
@@ -6,7 +6,7 @@
   if(document.querySelector('link[rel~="icon"]'))return;
   var cs=document.currentScript,base=cs&&cs.src?cs.src:location.href;
   var l=document.createElement('link');l.rel='icon';l.type='image/png';l.sizes='64x64';
-  l.href=new URL('icons/favicon-64.png?v=2',base).href;document.head.appendChild(l);
+  l.href=new URL('icons/favicon-64.png?v=3',base).href;document.head.appendChild(l);
 }catch(e){}})();
 /* ============================================================================
    smerp-session.js v1.1 (2026-11-23) — 개인 계정 로그인 세션 공용 (전 화면 <head> 맨 앞)

diff --git a/kpi_material.html b/kpi_material.html
@@ -2,7 +2,7 @@
 <html lang="ko">
 <head>
 <meta charset="UTF-8">
-<link rel="icon" type="image/png" sizes="64x64" href="icons/favicon-64.png?v=2">
+<link rel="icon" type="image/png" sizes="64x64" href="icons/favicon-64.png?v=3">
 <script src="i18n.js?v=20261119e"></script>
 <script src="smerp-auth.js?v=3" data-screen="kpi_material"></script>
 <meta name="viewport" content="width=device-width, initial-scale=1.0">

diff --git a/kpi_planning.html b/kpi_planning.html
@@ -2,7 +2,7 @@
 <html lang="ko">
 <head>
 <meta charset="UTF-8">
-<link rel="icon" type="image/png" sizes="64x64" href="icons/favicon-64.png?v=2">
+<link rel="icon" type="image/png" sizes="64x64" href="icons/favicon-64.png?v=3">
 <script src="i18n.js?v=20261119e"></script>
 <script src="smerp-auth.js?v=3" data-screen="kpi_planning"></script>
 <meta name="viewport" content="width=device-width, initial-scale=1.0">

diff --git a/kpi_purchase.html b/kpi_purchase.html
@@ -2,7 +2,7 @@
 <html lang="ko">
 <head>
 <meta charset="UTF-8">
-<link rel="icon" type="image/png" sizes="64x64" href="icons/favicon-64.png?v=2">
+<link rel="icon" type="image/png" sizes="64x64" href="icons/favicon-64.png?v=3">
 <script src="i18n.js?v=20261119e"></script>
 <script src="smerp-auth.js?v=3" data-screen="kpi_purchase"></script>
 <meta name="viewport" content="width=device-width, initial-scale=1.0">

diff --git a/kpi_mfg.html b/kpi_mfg.html
@@ -2,7 +2,7 @@
 <html lang="ko">
 <head>
 <meta charset="UTF-8">
-<link rel="icon" type="image/png" sizes="64x64" href="icons/favicon-64.png?v=2">
+<link rel="icon" type="image/png" sizes="64x64" href="icons/favicon-64.png?v=3">
 <script src="i18n.js?v=20261119e"></script>
 <script src="smerp-auth.js?v=3" data-screen="kpi_mfg"></script>
 <meta name="viewport" content="width=device-width, initial-scale=1.0">

diff --git a/po_smeglobal.html b/po_smeglobal.html
@@ -2,7 +2,7 @@
 <html lang="ko">
 <head>
 <meta charset="UTF-8">
-<link rel="icon" type="image/png" sizes="64x64" href="icons/favicon-64.png?v=2">
+<link rel="icon" type="image/png" sizes="64x64" href="icons/favicon-64.png?v=3">
 <script src="i18n.js?v=20261119e"></script>
 <script src="smerp-auth.js?v=3" data-screen="po"></script>
 <meta name="viewport" content="width=device-width, initial-scale=1.0">
